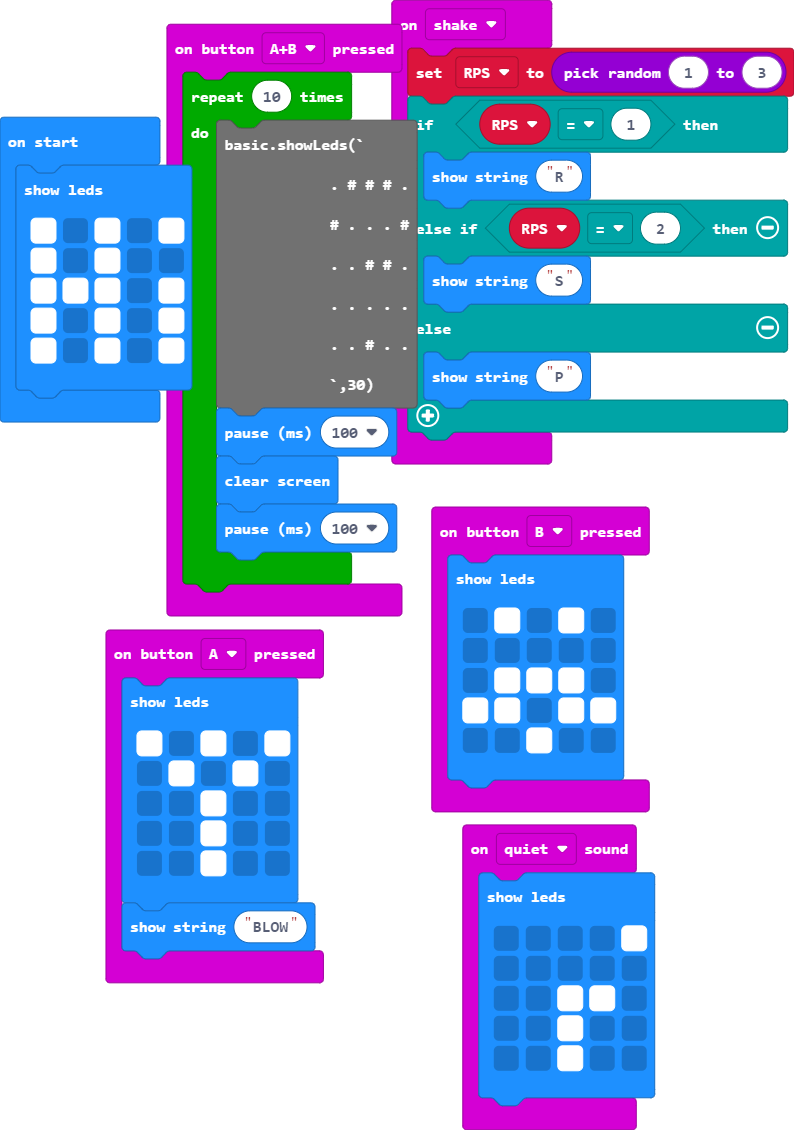
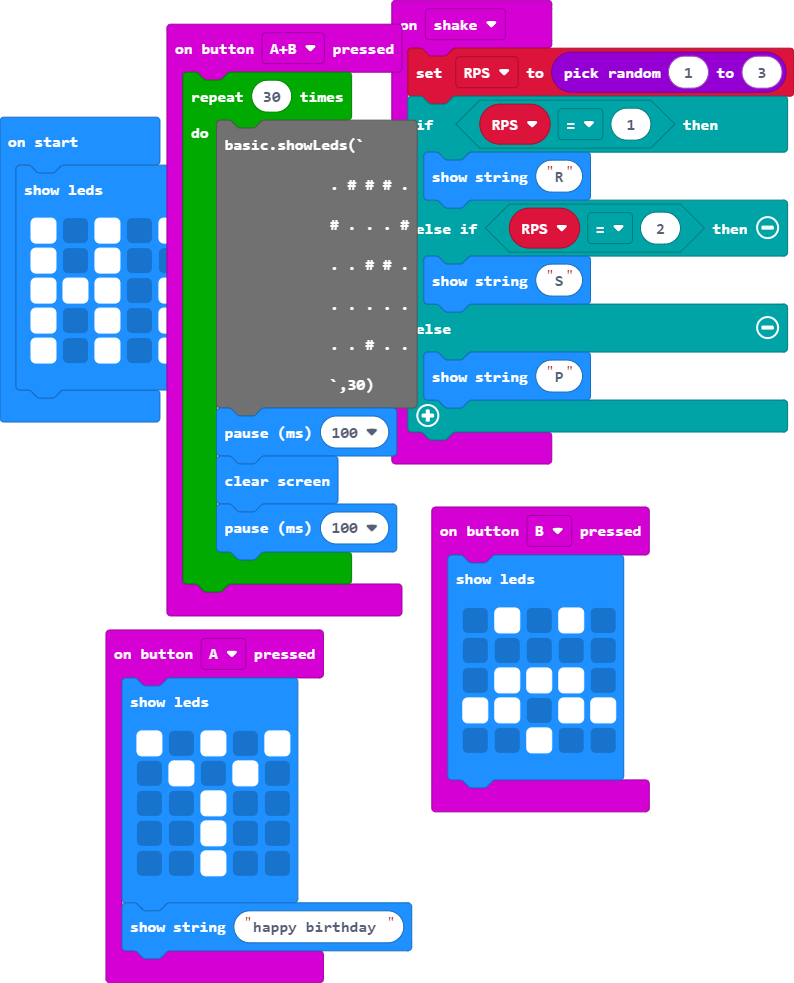
Update main.blocks, main.ts

diff --git a/main.ts b/main.ts
@@ -6,10 +6,10 @@ input.onButtonPressed(Button.A, function () {
         . . # . .
         . . # . .
         `)
-    basic.showString("BLOW")
+    basic.showString("happy birthday ")
 })
 input.onButtonPressed(Button.AB, function () {
-    for (let index = 0; index < 10; index++) {
+    for (let index = 0; index < 30; index++) {
         basic.showLeds(`
             . # # # .
             # . . . #
@@ -40,15 +40,6 @@ input.onGesture(Gesture.Shake, function () {
     } else {
         basic.showString("P")
     }
-})
-input.onSound(DetectedSound.Quiet, function () {
-    basic.showLeds(`
-        . . . . #
-        . . . . .
-        . . # # .
-        . . # . .
-        . . # . .
-        `)
 })
 let RPS = 0
 basic.showLeds(`
